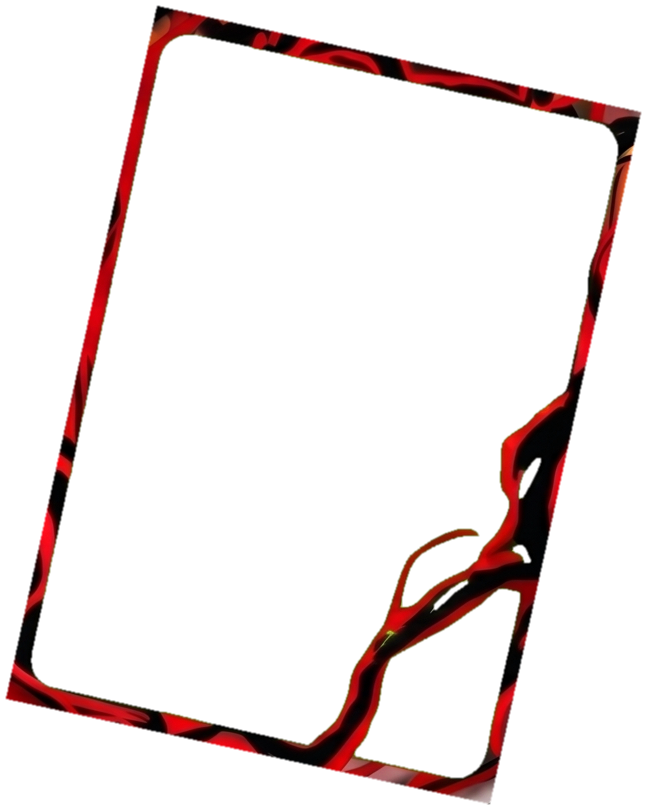
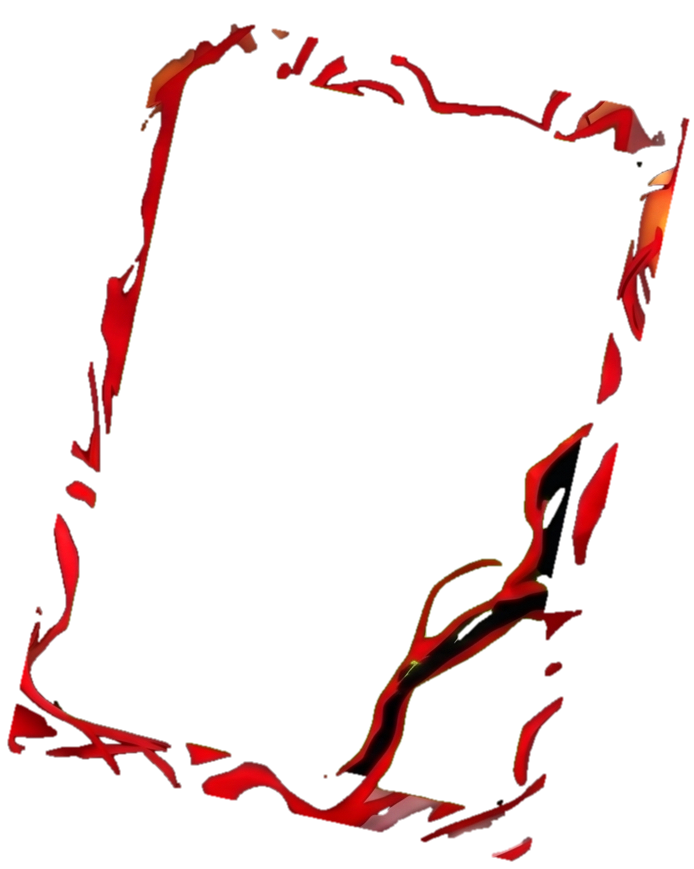
Gauntlet occluder v2: only tendrils+thumb in front; ink ring buried under the card (kills the fake outline + see-through patches)

Changed region(s): [[0.0, 0.0, 0.9907, 1.0]]

diff --git a/gauntlet.html b/gauntlet.html
@@ -24,7 +24,7 @@ body{background:#05070f;color:#eaf2ff;font-family:'DM Sans',system-ui,sans-serif
 @media (min-aspect-ratio:2752/1536){ .stage{height:auto;width:100vw;min-height:100vh} }
 .stage > img.scene{position:absolute;inset:0;width:100%;height:100%;object-fit:fill;user-select:none;-webkit-user-drag:none}
 /* the live card — positioned in % of the stage so it scales with it */
-.cardslot{position:absolute;left:50.3052%;top:56.3264%;width:17.9563%;height:46.0623%;
+.cardslot{position:absolute;left:50.3052%;top:56.3264%;width:17.6200%;height:45.1950%;
   transform:translate(-50%,-50%) rotate(12.28deg);transform-style:preserve-3d;cursor:pointer;
   filter:drop-shadow(0 0 34px rgba(255,40,30,.45)) drop-shadow(0 14px 30px rgba(0,0,0,.5))}
 .cardslot .flip{position:absolute;inset:-3.2%;transform-style:preserve-3d}
@@ -33,7 +33,7 @@ body{background:#05070f;color:#eaf2ff;font-family:'DM Sans',system-ui,sans-serif
 .cardslot .sheen{position:absolute;inset:-3.2%;border-radius:4.6%/3.4%;pointer-events:none;mix-blend-mode:screen;
   background:linear-gradient(118deg,transparent 40%,rgba(255,235,200,.5) 50%,transparent 60%);
   background-size:240% 100%;background-position-x:-140%;background-repeat:no-repeat}
-.occluder{position:absolute;left:38.5538%;top:29.9479%;width:23.4738%;height:52.6693%;pointer-events:none;user-select:none;-webkit-user-drag:none}
+.occluder{position:absolute;left:37.6817%;top:27.9948%;width:25.2180%;height:56.5755%;pointer-events:none;user-select:none;-webkit-user-drag:none}
 /* chrome */
 .hud{position:fixed;left:0;right:0;top:0;z-index:10;display:flex;align-items:center;justify-content:space-between;padding:18px clamp(18px,3vw,40px);
   background:linear-gradient(180deg,rgba(4,6,12,.72),transparent)}
